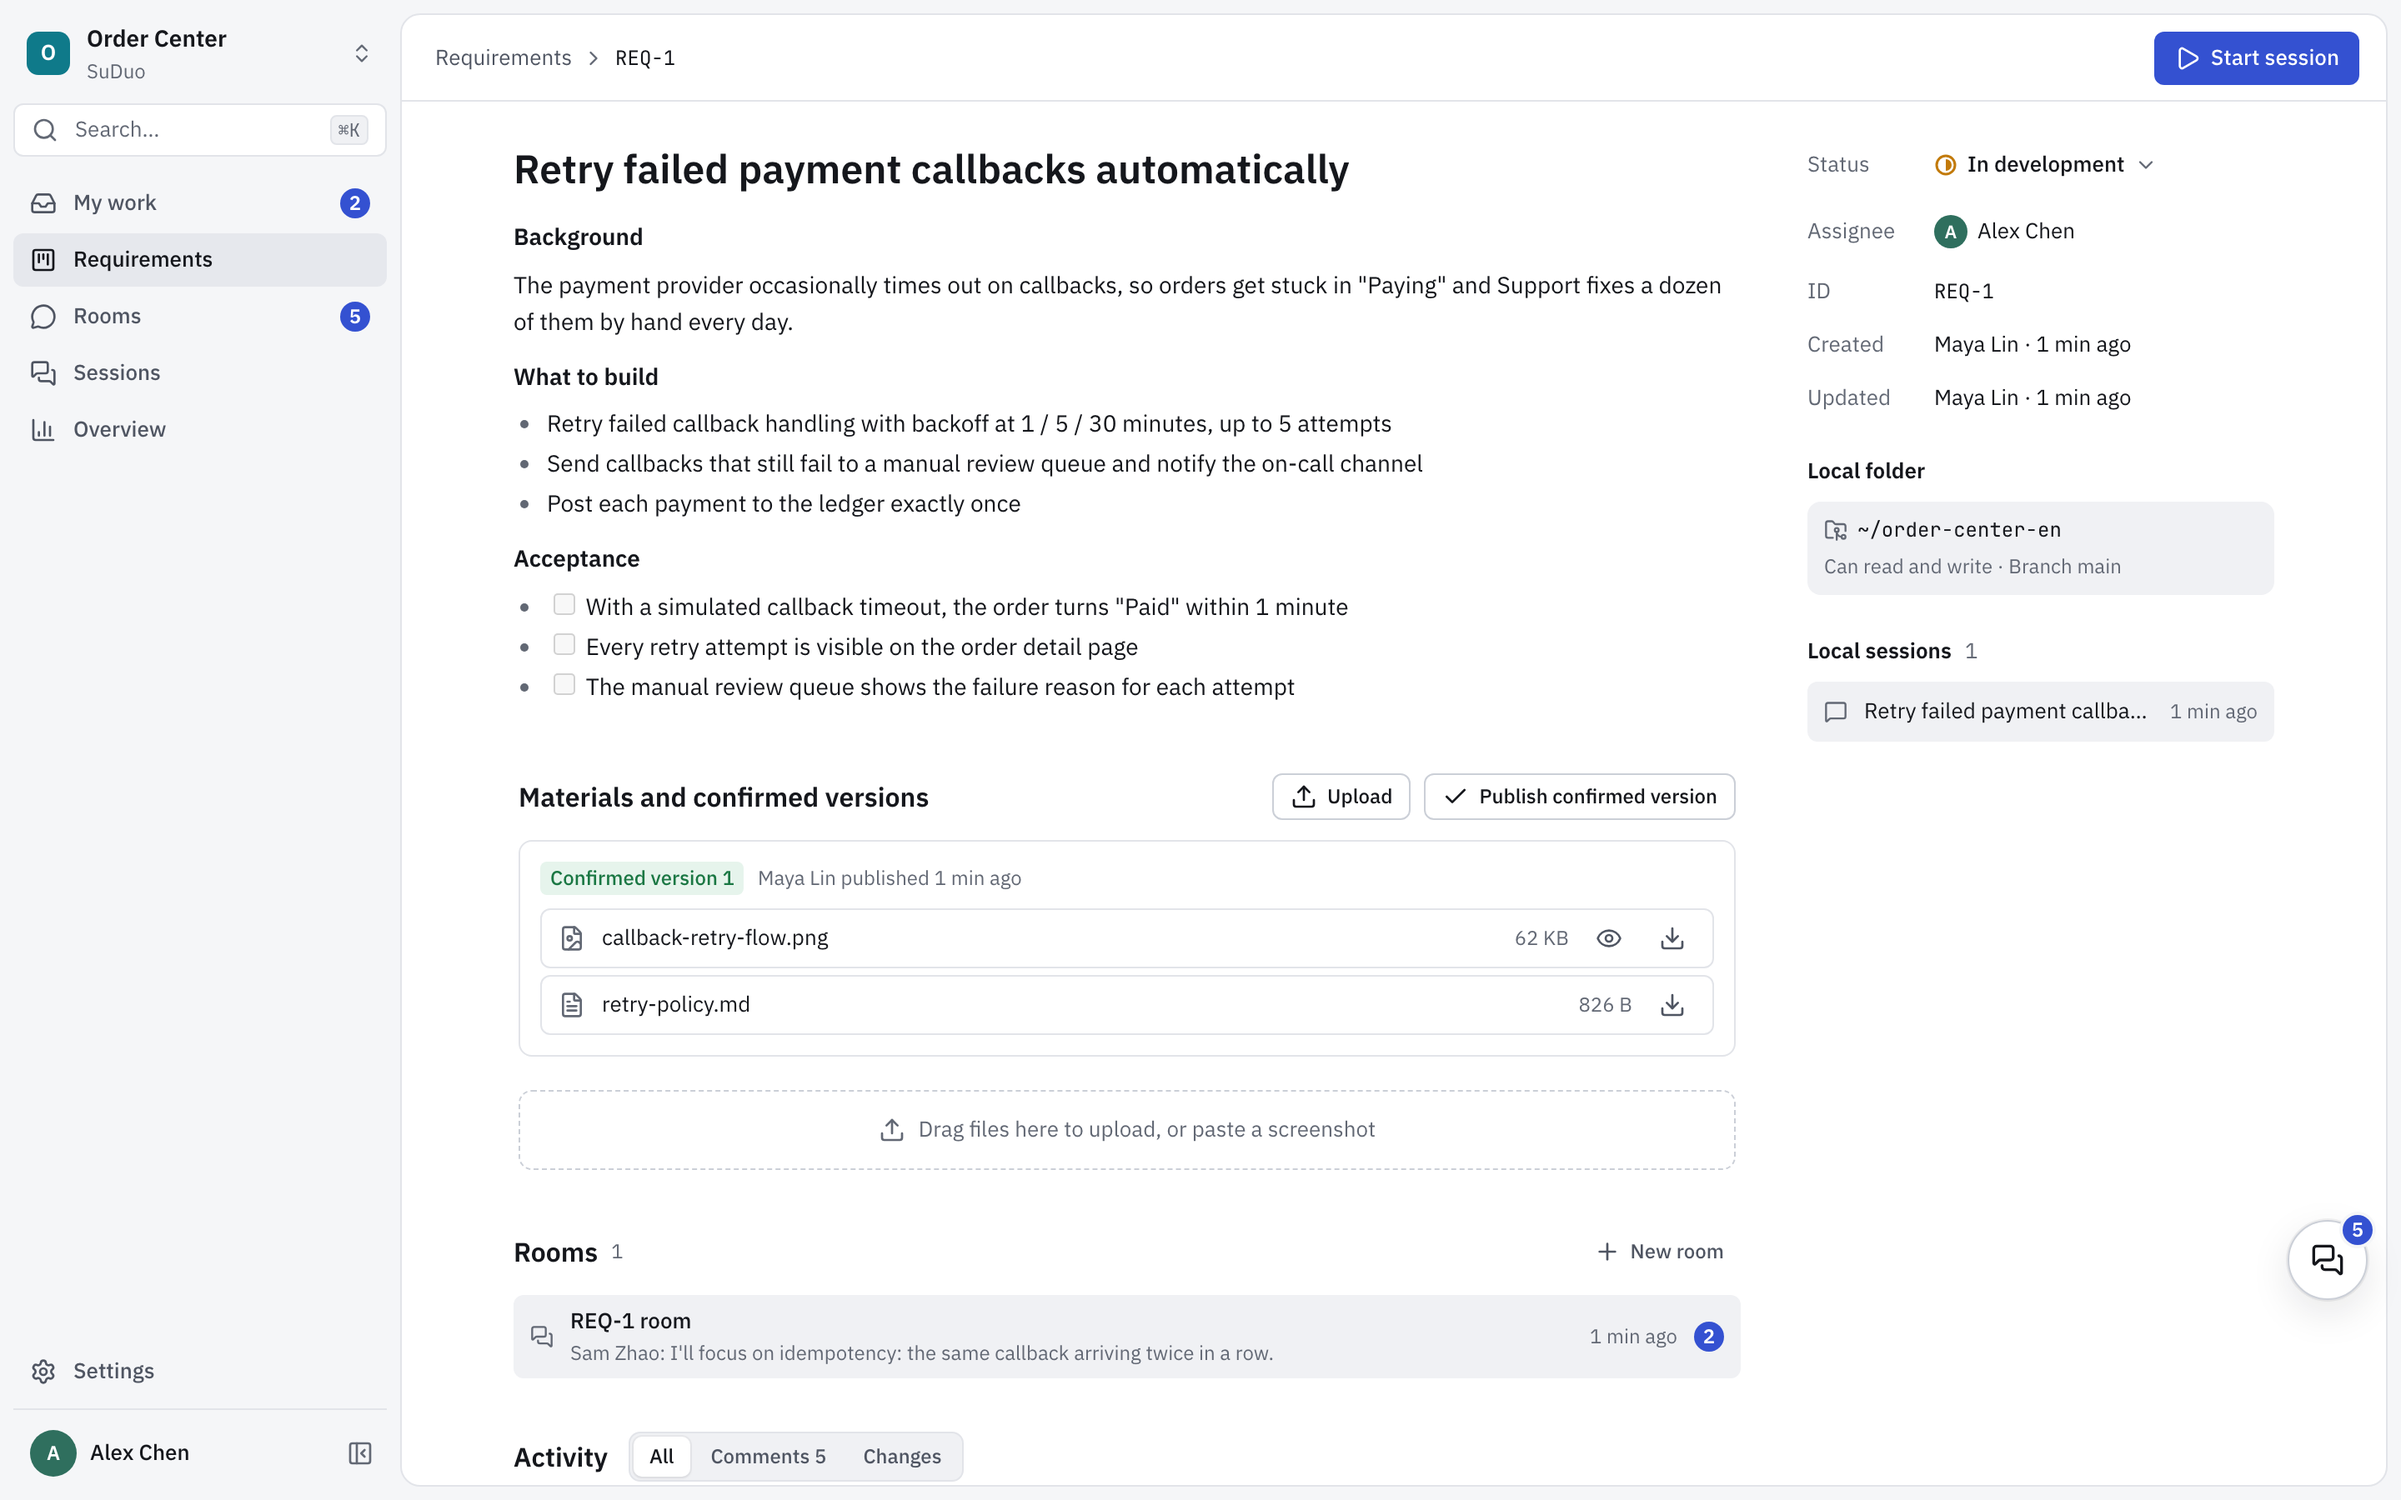
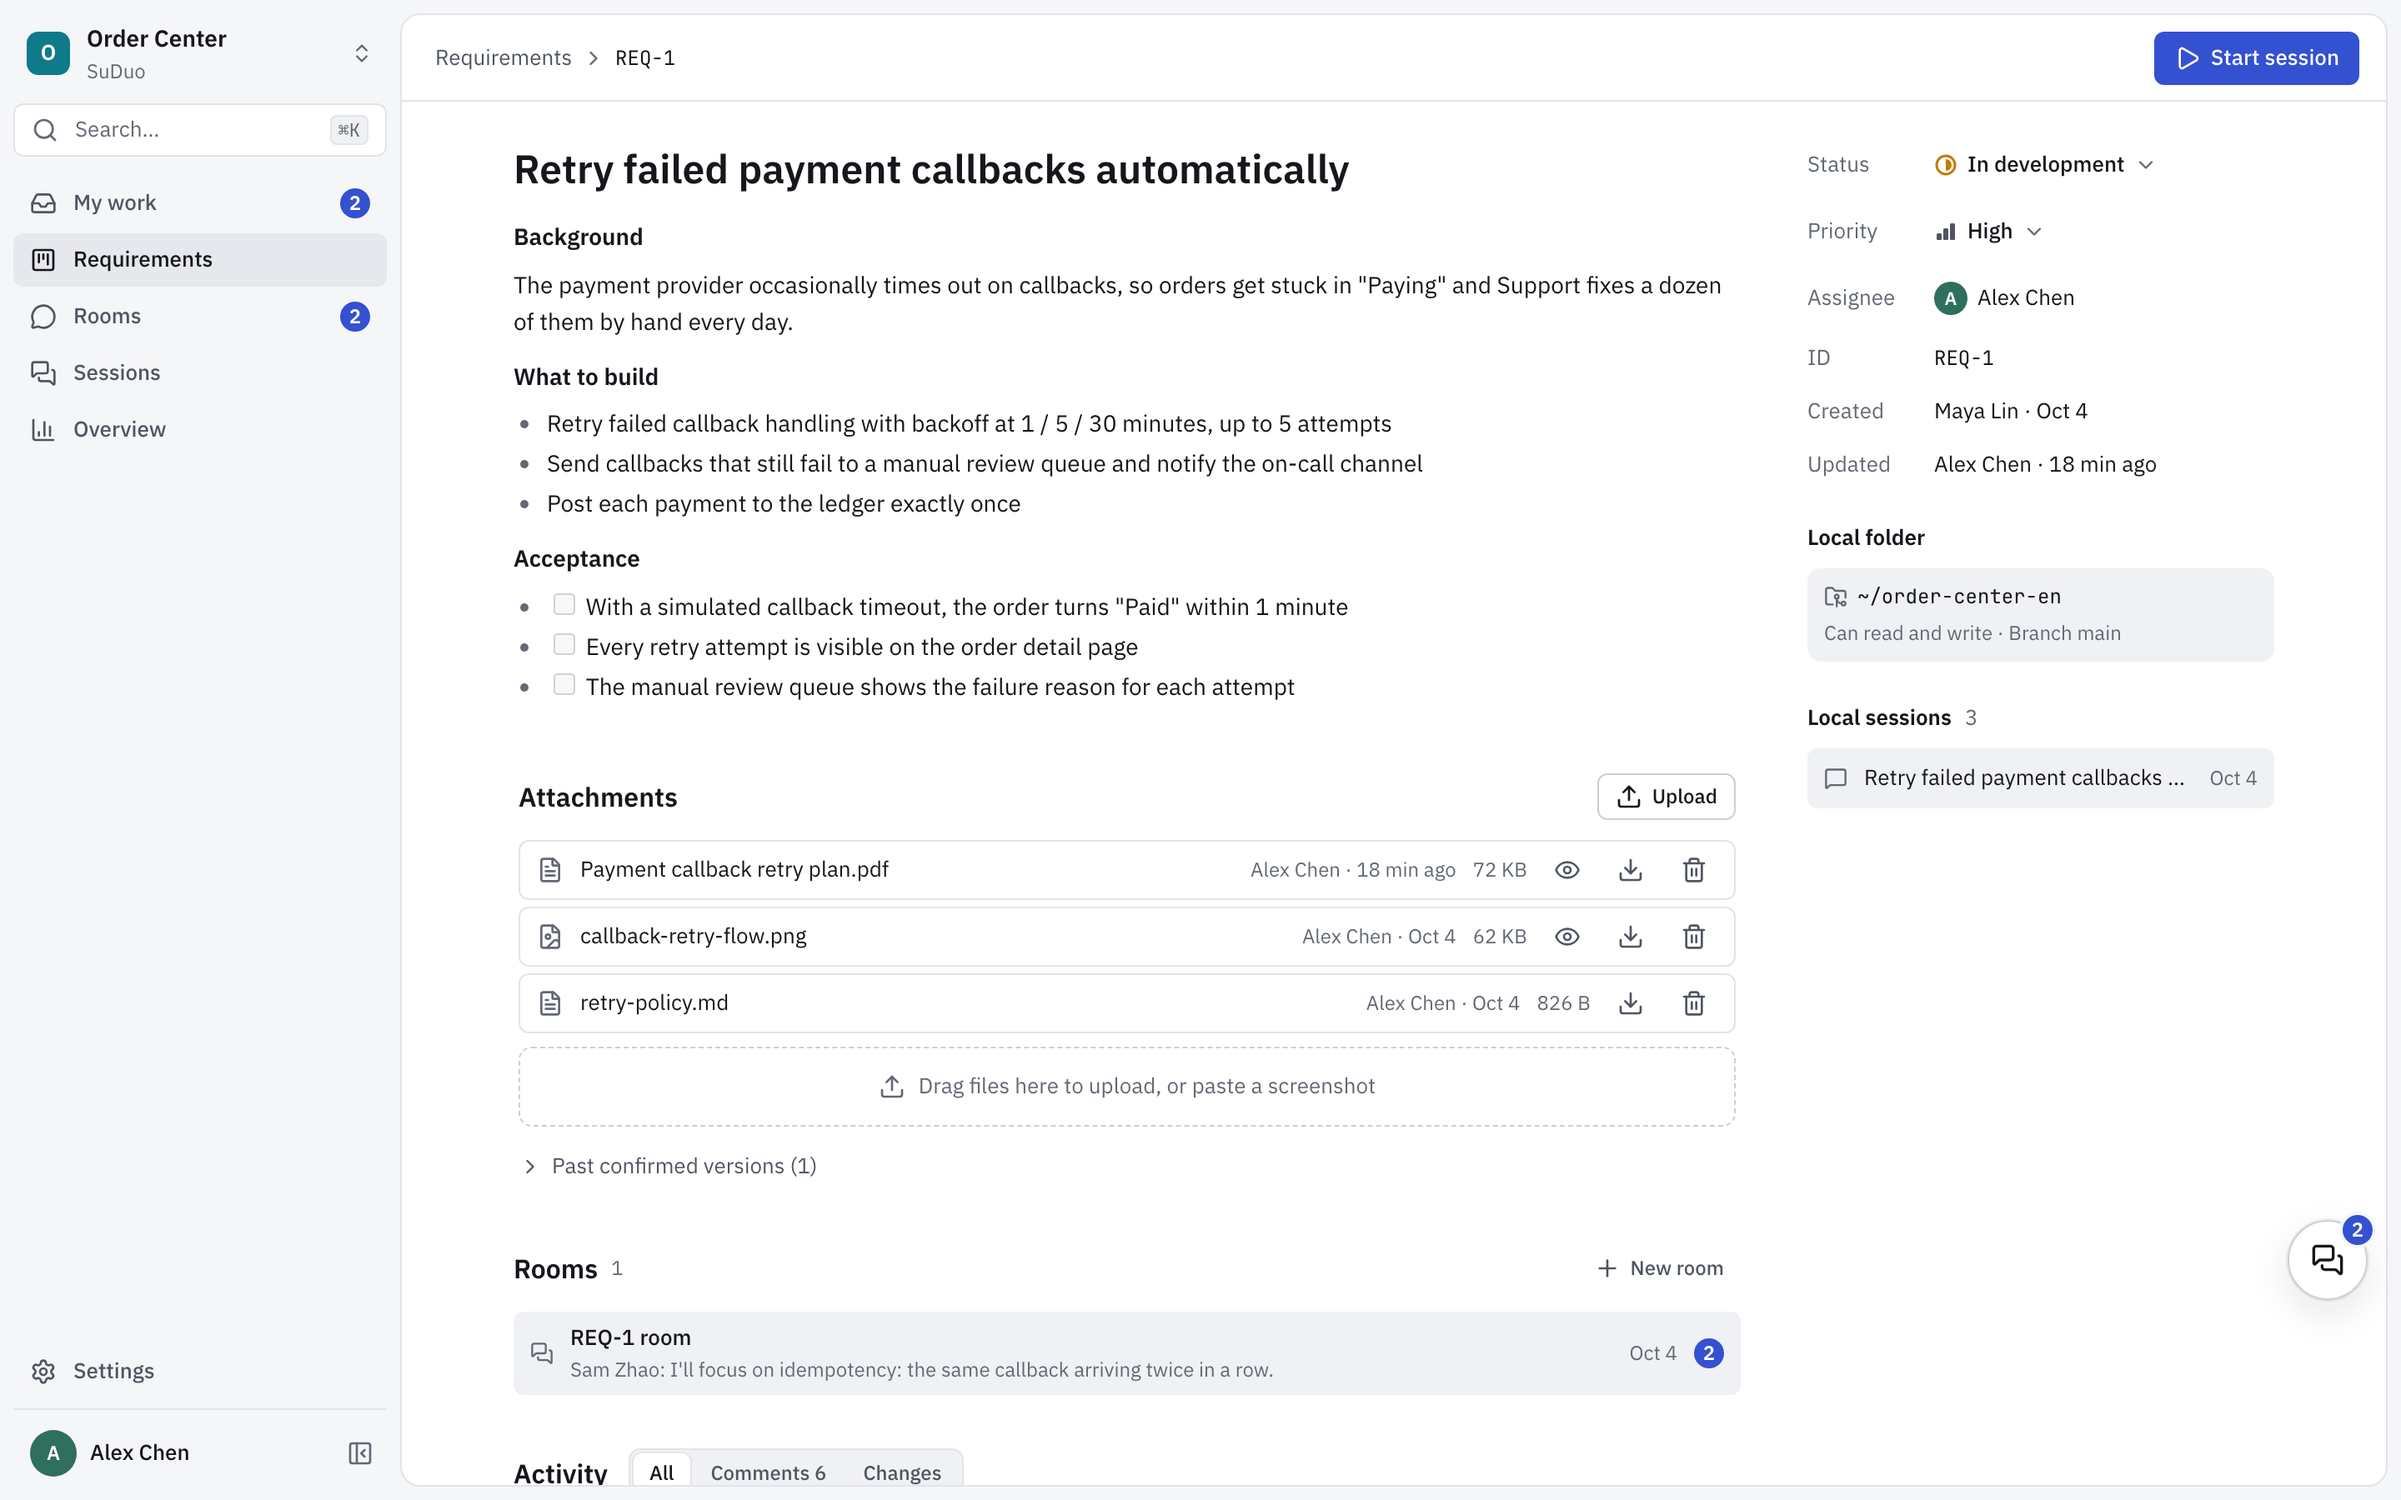
fix: 附件名链接样式；README 需求截图换成 0.10.0 (#40)

diff --git a/client/web/src/features/requirements/sections/Materials.tsx b/client/web/src/features/requirements/sections/Materials.tsx
@@ -402,7 +402,11 @@ function FileRow({
   const Icon = fileIconFor(name);
   // 能预览的文件，点文件名本身也能预览（图片在当前页放大，PDF 等在新标签页打开），不只靠右边的小眼睛。
   const nameClass = "min-w-0 flex-1 truncate text-left text-small";
-  const nameLinkClass = cn(nameClass, "cursor-pointer rounded-xs outline-none hover:underline focus-visible:ring-2 focus-visible:ring-ring");
+  // PDF 等用 <a>：继承文字颜色、平时不加下划线，和图片的按钮看起来一样（没有全局的链接样式重置）。
+  const nameLinkClass = cn(
+    nameClass,
+    "cursor-pointer rounded-xs text-inherit no-underline outline-none hover:underline focus-visible:ring-2 focus-visible:ring-ring",
+  );
   return (
     <div className="group/file flex h-9 items-center gap-2.5 rounded-sm border border-border px-2.5 hover:bg-muted">
       <Icon className="size-4 shrink-0 text-subtle-foreground" aria-hidden="true" />

diff --git a/README.md b/README.md
@@ -23,7 +23,7 @@ A self-hosted requirements workspace for teams that build with the Codex CLI.
 
 <br>
 
-![A requirement in SuDuo: the description, discussion and activity on the left; status, the local code folder and local sessions on the right; "Start session" at the top](.github/assets/screenshot-requirement-en.png)
+![A requirement in SuDuo: the description, attachments, discussion and activity on the left; status, priority, the local code folder and local sessions on the right; "Start session" at the top](.github/assets/screenshot-requirement-en.png)
 
 <p align="center"><sub>SuDuo is available in English and Simplified Chinese; see <a href="#language">Language</a>.</sub></p>
 

diff --git a/client/README.md b/client/README.md
@@ -8,7 +8,7 @@ Your team also needs a SuDuo server; see the [deployment guide](../cloud/DEPLOYM
 
 ## Desktop app (trial)
 
-The desktop app includes everything the client needs, so you don't need Node.js, pnpm or git. It's a trial: it isn't signed yet and doesn't update itself.
+The desktop app includes everything the client needs, so you don't need Node.js or pnpm (git is only used for checkpoints and branch status). It's a trial: it isn't signed yet and doesn't update itself.
 
 1. Download the installer for your computer from the [latest release](https://github.com/Im-Sue/suduo-workbench/releases/latest). `SHA256SUMS.txt` in the same release lists the checksums.
 

diff --git a/client/README.zh-CN.md b/client/README.zh-CN.md
@@ -10,7 +10,7 @@ SuDuo 客户端运行在每个人自己的电脑上：一个只监听 `127.0.0.1
 
 ## 桌面应用（试用版）
 
-桌面应用自带客户端需要的一切，不用装 Node.js、pnpm 和 git。它是试用版：还没有签名，也不会自动更新。
+桌面应用自带客户端需要的一切，不用装 Node.js 和 pnpm（git 只在检查点和分支状态里用到）。它是试用版：还没有签名，也不会自动更新。
 
 1. 从[最新版本](https://github.com/Im-Sue/suduo-workbench/releases/latest)下载适合你电脑的安装包。同一页的 `SHA256SUMS.txt` 列出了校验值。
 

diff --git a/README.zh-CN.md b/README.zh-CN.md
@@ -23,7 +23,7 @@
 
 > 本页为中文版。若与英文版 [README.md](README.md) 有出入，以英文版为准。
 
-![SuDuo 的需求详情页：左边是需求描述、讨论和活动记录，右边是状态、本机代码目录和本机会话，右上角是「开始会话」](.github/assets/screenshot-requirement.png)
+![SuDuo 的需求详情页：左边是需求描述、附件、讨论和活动记录，右边是状态、优先级、本机代码目录和本机会话，右上角是「开始会话」](.github/assets/screenshot-requirement.png)
 
 ## 速舵是什么
 

diff --git a/CHANGELOG.zh-CN.md b/CHANGELOG.zh-CN.md
@@ -4,6 +4,12 @@
 
 > 本页为中文版。若与英文版 [CHANGELOG.md](CHANGELOG.md) 有出入，以英文版为准。
 
+## 未发布
+
+### 修复
+
+- 需求附件列表里，PDF 等在新标签页打开的文件，名字显示成了蓝色带下划线的链接。现在和其他文件名一样，鼠标悬停时才显示下划线。
+
 ## 0.10.0 — 2026-10-07
 
 新增需求优先级和评论文件，附件改回一张平铺列表，项目目录的关联按服务器分开。

diff --git a/CHANGELOG.md b/CHANGELOG.md
@@ -2,6 +2,12 @@
 
 [中文](CHANGELOG.zh-CN.md)
 
+## Unreleased
+
+### Fixed
+
+- In a requirement's attachment list, the names of PDFs and other files that open in a new tab showed as blue underlined links. They now look like the other file names and are underlined only on hover.
+
 ## 0.10.0 — 2026-10-07
 
 Adds requirement priorities and files in comments, makes attachments a plain list again, and keeps project folder links apart for each server.
